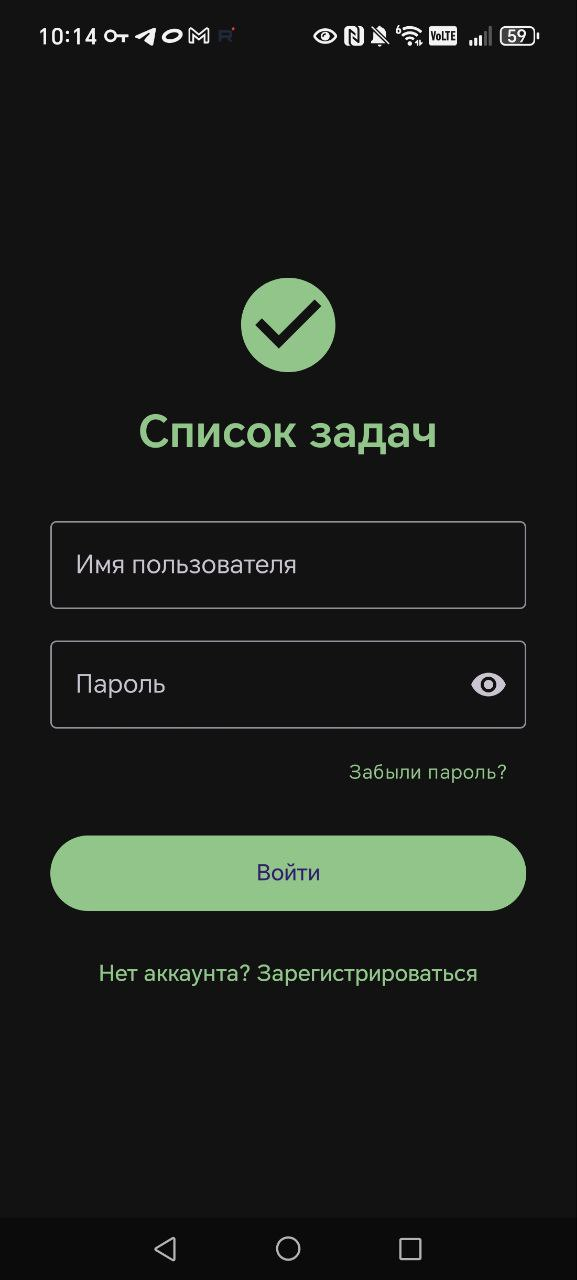
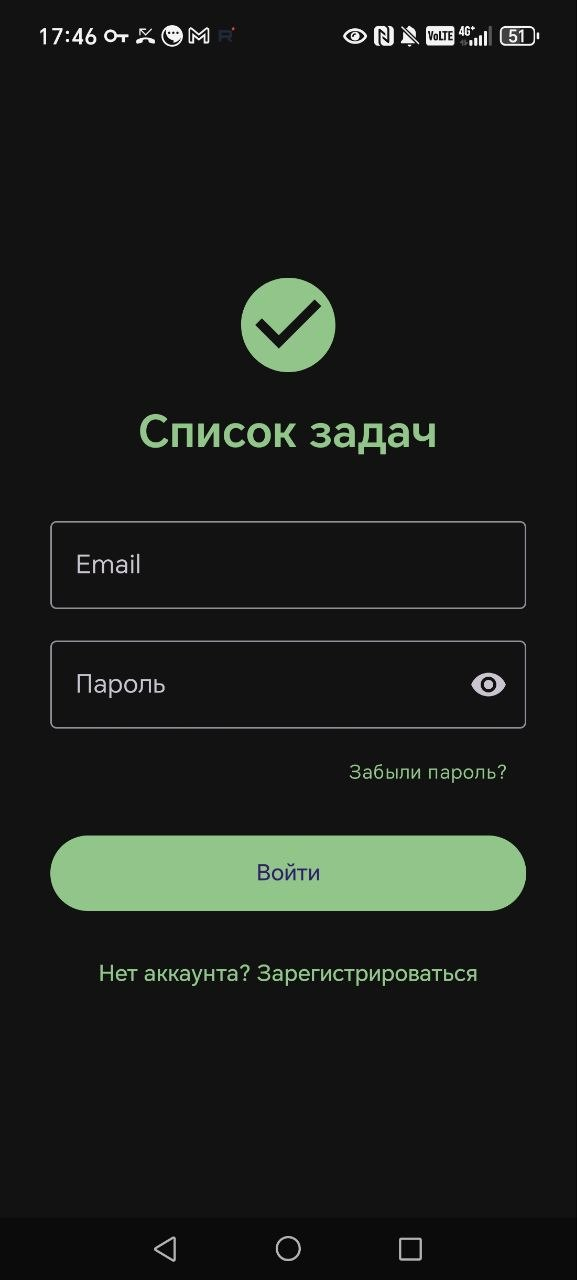
Update help page: email login instead of username, replace login screenshots

diff --git a/nginx/help/android.html b/nginx/help/android.html
@@ -154,10 +154,10 @@
     <h2 id="start">1. Начало работы</h2>
 
     <h3>Регистрация</h3>
-    <p>Откройте приложение и нажмите «Нет аккаунта? Зарегистрироваться». Введите email, имя пользователя и пароль. После регистрации на указанный email придёт письмо — подтвердите адрес.</p>
+    <p>Откройте приложение и нажмите «Нет аккаунта? Зарегистрироваться». Введите email, имя и пароль. После регистрации на указанный email придёт письмо — подтвердите адрес.</p>
 
     <h3>Вход</h3>
-    <p>Введите имя пользователя и пароль на экране входа. Если забыли пароль — нажмите «Забыли пароль?» и следуйте инструкциям в письме.</p>
+    <p>Введите email и пароль на экране входа. Если забыли пароль — нажмите «Забыли пароль?» и следуйте инструкциям в письме.</p>
 
     <div class="screenshot-row">
         <img src="/help/img/login_light.jpg" alt="Экран входа" class="screenshot">
